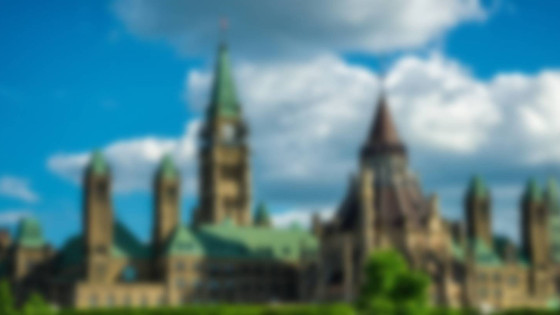
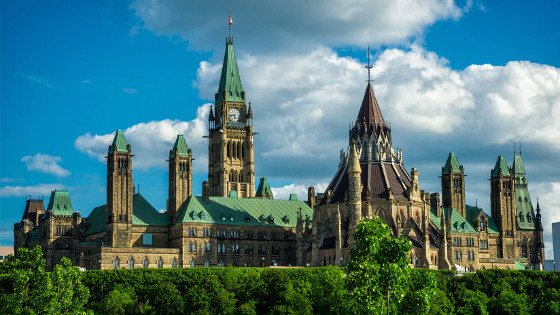
Use live hillcam

diff --git a/content/index.html b/content/index.html
@@ -11,7 +11,7 @@
                 </a>
                 <a href="/data-visualization/">
                     <h3>Data Visualization and Open Data</h3>
-                    <img src="/static/images/api.iscanadafair.ca.jpg" />
+                    <img src="/static/images/hillcam-560x315.jpg" />
                 </a>
                 <a href="/recent-parliamentary-business/">
                     <h3>Recent Parliamentary Business</h3>

diff --git a/content/data-visualization/index.html b/content/data-visualization/index.html
@@ -8,7 +8,7 @@
     <div class="landscapes">
         <a href="https://api.iscanadafair.ca/">
             <h3>Open Data<br/><small>api.iscanadafair.ca</small></h3>
-            <img src="/static/images/api.iscanadafair.ca.jpg" />
+            <img src="/static/images/hillcam-560x315.jpg" />
         </a>
         <a target="_blank" href="/data-visualization/example-usage/">
             <h3>Example Usage</h3>
